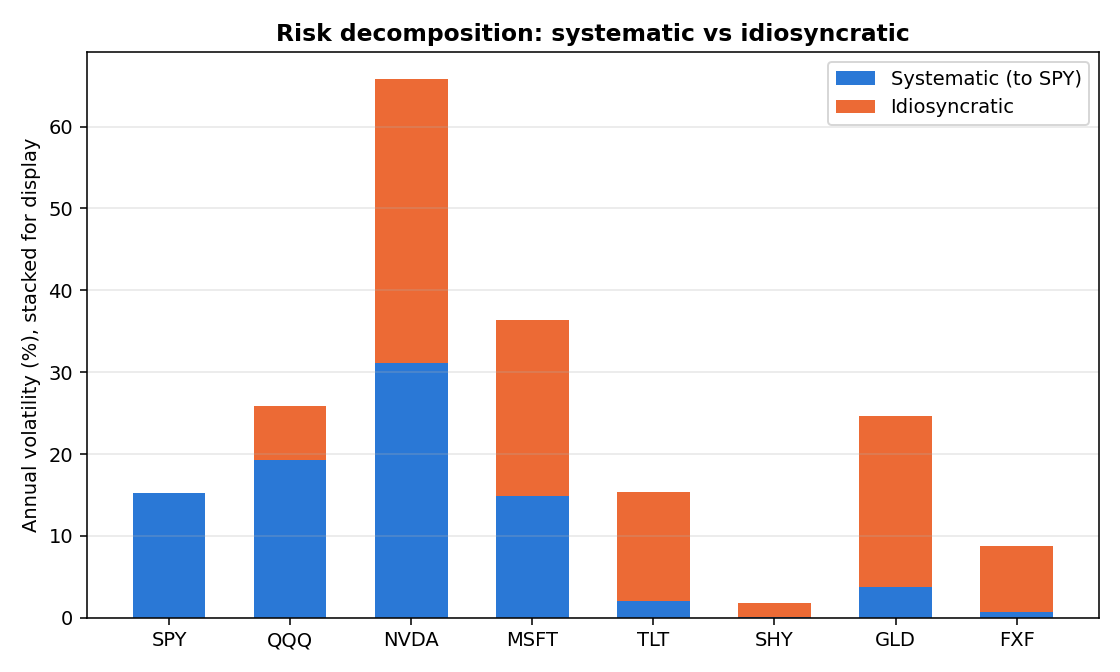
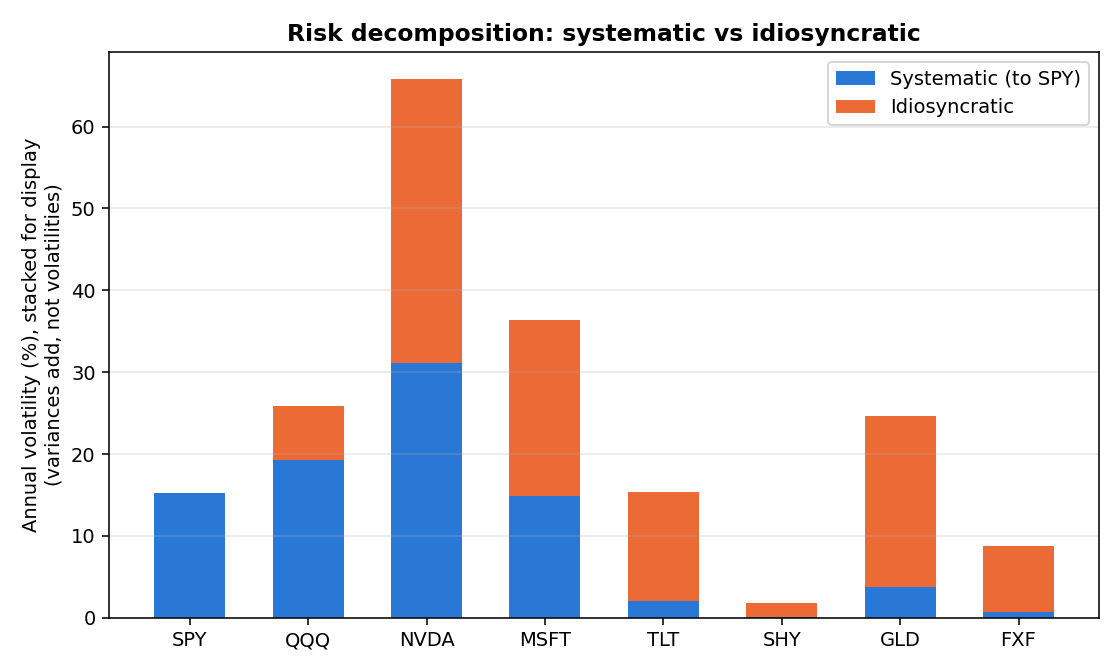
README, лицензия, подпись графика; сверка 16/16, 27 тестов зелёные

diff --git a/portfolio_lab/plots.py b/portfolio_lab/plots.py
@@ -52,7 +52,7 @@ def risk_decomposition(returns, out_dir):
     ax.bar(t.index, t["sys_vol"] * 100, color=BLUE, label="Systematic (to SPY)", width=0.6)
     ax.bar(t.index, t["idio_vol"] * 100, bottom=t["sys_vol"] * 100, color=ORANGE,
            label="Idiosyncratic", width=0.6)
-    ax.set_ylabel("Annual volatility (%), stacked for display")
+    ax.set_ylabel("Annual volatility (%), stacked for display\n(variances add, not volatilities)")
     ax.set_title("Risk decomposition: systematic vs idiosyncratic", fontweight="bold")
     ax.legend()
     ax.grid(axis="y", alpha=0.3)

diff --git a/tests/test_var.py b/tests/test_var.py
@@ -38,7 +38,7 @@ def test_cvar_not_below_var(port_ret):
 def test_parametric_understates_tail(port_ret):
     h = var.historical(port_ret, B)[0.99]["cvar"]
     p = var.parametric(port_ret, B)[0.99]["cvar"]
-    assert 0.15 < (h - p) / h < 0.35        # около 24% в опубликованном исследовании
+    assert 0.15 < (h - p) / h < 0.35        # (46.19 - 36.40) / 46.19 = 21%
 
 
 def test_bootstrap_reproducible(port_ret):

diff --git a/README.md b/README.md
@@ -1,0 +1,122 @@
+# Portfolio Research: an 8-asset portfolio, end to end
+
+A Python pipeline that takes a small portfolio of eight ETFs and stocks through the standard
+portfolio-management toolkit: risk decomposition, a Fama-French 5-factor check, CAPM, the
+mean-variance efficient frontier, Black-Litterman, VaR / CVaR and stress tests.
+
+I built it to learn portfolio management by doing: read the theory first, then implement it on a
+portfolio I plan to run with my own money (a €2,000 model portfolio). Educational project, not
+investment advice.
+
+> **About this code.** The original scripts from September 2026 were lost; only the results
+> (charts and a published write-up) survived. This repository is a **reconstruction** written from
+> that description, with AI assistance. To make sure it is faithful, it is tested against the numbers
+> I published: **16 of 16 reference values are reproduced within tolerance** (table below).
+> The stress-test shocks were not recorded, so they were re-specified from scratch and do **not**
+> match the original results. Details are in [Assumptions](#assumptions-and-limitations).
+
+## Universe
+
+`SPY, QQQ, NVDA, MSFT, TLT, SHY, GLD, FXF` — US equities, two mega-cap stocks, long and short
+Treasuries, gold and the Swiss franc. Three years of daily adjusted prices (yfinance).
+
+NVDA and MSFT are deliberately arbitrary picks: I did no fundamental or macro analysis to choose them.
+Comparing them with other tech names is the next step.
+
+## Pipeline
+
+| Step | Module | What it does |
+|---|---|---|
+| 1 | `risk.py` | Volatility, 8×8 correlation matrix, beta to SPY, split of each asset's variance into systematic and idiosyncratic parts |
+| 2 | `factors.py` | Fama-French 5-factor regression (all factors estimated jointly) as a cross-check on CAPM |
+| 3 | `capm.py` | Expected returns from beta and a forward-looking equity risk premium |
+| 4 | `frontier.py` | Efficient frontier (long-only and with shorting), tangency (max Sharpe) and minimum-variance portfolios |
+| 5 | `black_litterman.py` | Reverse optimization of market-implied returns, π = δΣw, with δ calibrated for consistency |
+| 6 | `var.py` | VaR and CVaR: Historical, Parametric (normal), Monte Carlo (bootstrap of real days) |
+| 7 | `stress.py` | Four scenario shocks applied to the portfolio |
+
+## Results (window 2023-09-05 to 2026-09-25, 768 daily returns)
+
+- **NVDA beta 2.04**, SHY about 0.01. NVDA's idiosyncratic volatility (34.6%) alone exceeds the
+  whole volatility of QQQ (20.4%).
+- **Fama-French 5 factors:** NVDA still shows about **32% a year of unexplained alpha** (R² 56.5%).
+  This is a three-year, in-sample estimate driven by the AI rally. Do not extrapolate it.
+- **Black-Litterman trap:** weighting by market cap inside a narrow universe gave NVDA about 50% weight
+  and a ~90% implied return. Units are not comparable (a company versus one ETF) and SPY / QQQ already
+  contain NVDA and MSFT. Rebuilding the weights from a macro allocation and NVDA's real S&P 500 share gives
+  **13.3%**, in line with CAPM (13.0%).
+- **Tangency portfolio (long-only):** expected return 7.16%, volatility 11.25%, Sharpe 0.26. On pure
+  Black-Litterman returns it equals the market weights by construction, so it is a consistency check,
+  not an independent view.
+- **VaR / CVaR (1 day, €2,000):** Historical and bootstrap agree; Parametric understates the 99% CVaR
+  by about 21% (€36.40 vs €46.19), a direct effect of fat tails. On a one-month horizon the methods
+  converge.
+
+![Efficient frontier](charts/efficient_frontier.png)
+
+| | | |
+|---|---|---|
+| ![Correlations](charts/correlation_matrix.png) | ![Betas](charts/beta_bars.png) | ![Risk decomposition](charts/risk_decomposition.png) |
+| ![VaR](charts/var_cvar_comparison.png) | ![Stress](charts/stress_scenarios.png) | |
+
+## Reproduction check
+
+`python -m portfolio_lab --fixed` prints this table and the test suite asserts it.
+
+| Metric | Published | Reproduced |
+|---|---|---|
+| NVDA beta | 2.044 | 2.044 |
+| NVDA volatility, % | 46.59 | 46.59 |
+| NVDA idiosyncratic vol, % | 34.6 | 34.63 |
+| NVDA FF5 alpha, % p.a. | 31.97 | 31.98 |
+| NVDA FF5 R², % | 56.5 | 56.53 |
+| δ (risk aversion) | 2.345 | 2.339 |
+| CAPM NVDA, % | 12.98 | 12.97 |
+| BL implied return NVDA, % | 13.34 | 13.33 |
+| BL implied return SPY, % | 7.95 | 7.95 |
+| Tangency E[R], % | 7.16 | 7.16 |
+| Tangency volatility, % | 11.25 | 11.25 |
+| Tangency Sharpe | 0.264 | 0.263 |
+| Historical 95% VaR, € | 21.33 | 21.33 |
+| Historical 99% CVaR, € | 46.19 | 46.20 |
+| Parametric 99% CVaR, € | 36.40 | 36.40 |
+| Monte Carlo 99% CVaR, € | 46.17 | 45.97 |
+
+Tolerances are defined in [`SPEC.md`](SPEC.md). Small differences come from rounding the published
+inputs (risk-free rate, ERP) and from Monte Carlo sampling noise.
+
+## Assumptions and limitations
+
+- **Inputs that are assumptions, not measurements:** risk-free rate 4.2%; equity risk premium 4.29%
+  (backed out from the published CAPM figures; the original work used Damodaran's forward-looking implied ERP); macro allocation
+  55% equities / 15% long bonds / 15% short bonds / 10% gold / 5% CHF; NVDA and MSFT at 8.3% and 4.6% of the
+  equity block. The SPY : QQQ split (62 : 38) was derived from the published tangency weights because
+  the original AUM figures were not kept.
+- **Stress shocks were re-specified**, loosely based on COVID-2020, 2022 and an AI-bubble sketch (see
+  [`stress.py`](portfolio_lab/stress.py)). They were not tuned to the original results, which were
+  −14.64%, −11.18%, −8.98% and −15.62%. A stress test says nothing about the probability of a scenario.
+- Black-Litterman is run **without personal views**; adding views (P, Q, Ω) is future work.
+- Three years of data and one regime dominated by the AI rally. The NVDA alpha is in-sample.
+- No transaction costs, taxes or position constraints. Shorting is shown for the frontier only; on a
+  retail budget it is usually impractical (margin, borrow fees, unlimited loss).
+- Fama-French factors are published with a lag, so the verification window for the factor regression is
+  capped at 2026-08-31 (750 observations), as in the original work.
+- The package is run on a rolling window by default, so numbers will drift from the table above; use
+  `--fixed` to reproduce it.
+
+## Run it
+
+```bash
+pip install -r requirements.txt
+python -m pytest -q                  # 27 tests, reference values asserted
+python -m portfolio_lab --fixed      # reproduces the published numbers + charts
+python -m portfolio_lab              # same pipeline on the latest 3 years
+```
+
+No API keys needed: prices come from yfinance, factors from the Ken French Data Library.
+Downloaded data is cached in `data/cache/`.
+
+## Sources
+
+yfinance (prices), Ken French Data Library (factors), Damodaran (implied equity risk premium).
+Theory: Markowitz (1952), Sharpe (1964), Fama-French (2015), Black-Litterman (1992).
